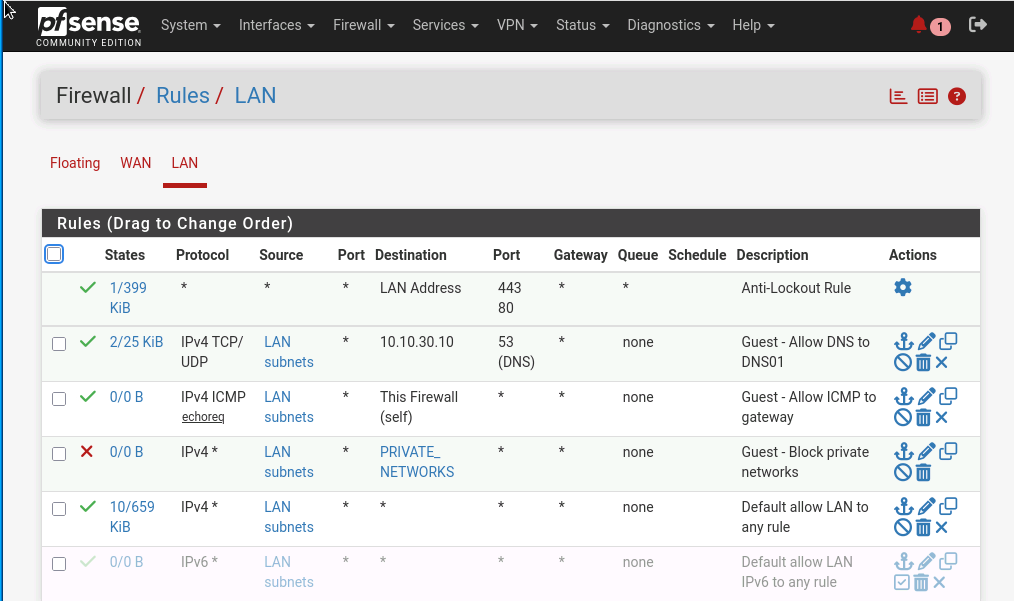
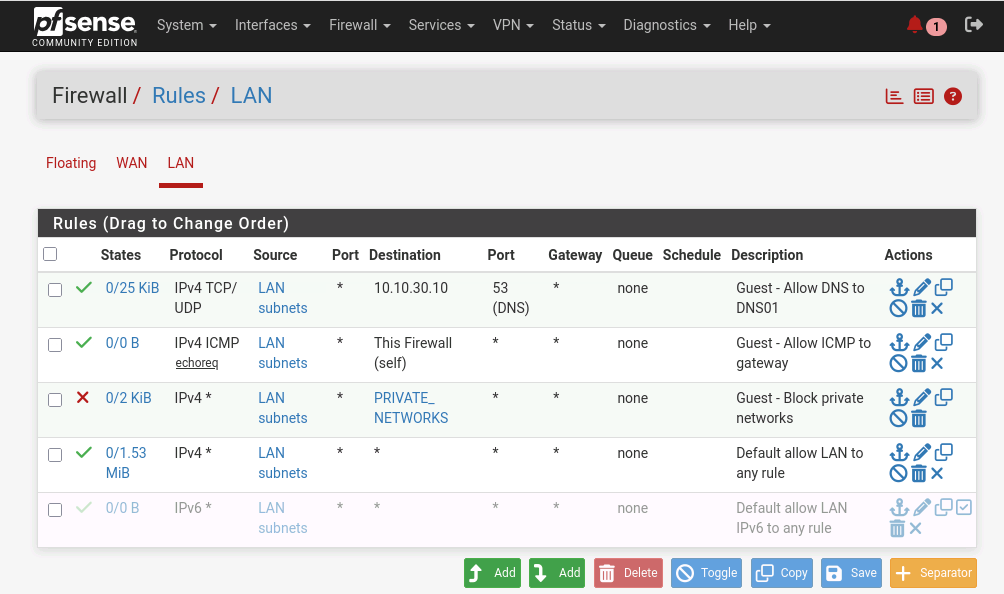
firewall-policy.md minor update

diff --git a/docs/firewall-policy.md b/docs/firewall-policy.md
@@ -41,7 +41,7 @@ Rules are evaluated top-down.
 | 4 | Allow | IPv4 any | IT subnets | HR subnets | Any | Allow IT to manage/reach HR |
 | 5 | Allow | IPv4 any | IT subnets | `10.10.20.0/24` | Any | Allow IT to reach Guest for support |
 | 6 | Allow | TCP | IT subnets | This Firewall (self) | 443 | Allow IT clients to manage pfSense-Internal over HTTPS |
-| 7 | Allow | TCP | IT subnets | `10.10.253.2` | 443 | Allow IT to reach the pfSense-Guest management interface |
+| 7 | Allow | TCP | IT subnets | Guest Network Firewall | 443 | Allow IT clients to manage pfSense-Guest over HTTPS |
 | 8 | Block | IPv4 any | IT subnets | `PRIVATE_NETWORKS` | Any | Block other private/internal networks not explicitly allowed above |
 | 9 | Allow | IPv4 any | IT subnets | Any | Any | Allow Internet/non-private destinations |
 
@@ -78,7 +78,6 @@ Because the private-network block occurs before the final outbound allow, HR can
 
 ![Firewall HQ WAN rules](/docs/firewall-rules/Firewall-HQ-WAN.png)
 
-
 I intentionally did not configure explicit pass rules on the pfSense-Internal WAN interface.
 
 The WAN interface is the transit link toward R1, not the public Internet. Traffic initiated from IT, Finance, or HR is evaluated when it enters pfSense on the corresponding internal interface. When an allow rule creates a firewall state, related return traffic arriving through WAN is automatically permitted.
@@ -112,6 +111,8 @@ Core / remote network initiated traffic
 
 ### Guest WAN Policy
 
+![Firewall Guest WAN rules](/docs/firewall-rules/Firewall-Guest-WAN.png)
+
 | Order | Action | Protocol | Source | Destination | Purpose |
 |---:|---|---|---|---|---|
 | 1 | Block | Any | Reserved/bogon sources | Any | Block invalid/unallocated source networks |
@@ -119,16 +120,13 @@ Core / remote network initiated traffic
 | 3 | Allow | IPv4 any | `10.10.10.0/24` | LAN subnets | Any | Allow HQ/IT access to Guest hosts for support |
 | 4 | Allow | ICMP echo request | `10.10.253.1` | `10.10.253.2` | Any | Allow R3 to ping the pfSense-Guest WAN interface |
 
-The complete HQ IT management path requires matching permission on both firewalls:
-
-- **pfSense-Internal IT interface:** allow `10.10.10.0/24` to `10.10.253.2` on TCP/443.
-- **pfSense-Guest WAN interface:** allow `10.10.10.0/24` to the WAN address `10.10.253.2` on TCP/443.
-
-This path has been tested successfully from the IT network using `https://10.10.253.2`.
+The HTTPS management rule allows trusted IT clients from `10.10.10.0/24` to reach the pfSense-Guest web interface at `https://10.10.253.2`.
 
 The following rule separately permits IT clients from `10.10.10.0/24` to initiate connections toward Guest hosts for support and troubleshooting.
 
 ### Guest LAN Policy
+
+![Firewall Guest LAN rules](/docs/firewall-rules/Firewall-Guest-LAN.png)
 
 | Order | Action | Protocol | Source | Destination | Port | Purpose |
 |---:|---|---|---|---|---|---|
@@ -141,7 +139,7 @@ The DNS exception must be above the private-network block because DNS01 (`10.10.
 
 ### Guest Management Hardening
 
-Trusted remote management from the HQ IT network is explicitly configured on the pfSense-Guest WAN interface:
+Trusted remote management from the HQ IT network is now explicitly configured on the pfSense-Guest WAN interface:
 
 ```text
 Source:      10.10.10.0/24
@@ -151,18 +149,9 @@ Port:        443
 Action:      Allow
 ```
 
-The matching pfSense-Internal IT-interface rule permits `10.10.10.0/24` to reach `10.10.253.2` on TCP/443.
+This gives HQ IT a dedicated management path to the pfSense-Guest GUI without requiring broad access from the Guest LAN.
 
-This path has been tested successfully from the HQ IT network.
-
-The default webConfigurator anti-lockout rule on pfSense-Guest has now been disabled. Guest-LAN clients therefore no longer receive automatic GUI access on ports 80/443; management access is controlled by explicit firewall rules instead.
-
-The intended management model is now:
-
-```text
-HQ IT -> pfSense-Guest HTTPS/443 -> Allow
-Guest clients -> pfSense-Guest GUI -> Deny
-```
+The default pfSense anti-lockout rule on the Guest LAN should only be disabled after the HQ IT management path has been tested successfully. Until that anti-lockout rule is removed, Guest-LAN clients may still be able to reach the firewall web interface on ports 80/443.
 
 ---
 
@@ -173,7 +162,7 @@ Guest clients -> pfSense-Guest GUI -> Deny
 | IT | Local | Allow | Allow | Allow | DNS allowed | Allow | HTTPS allowed | HTTPS allowed |
 | Finance | Block | Local | Block | Block | DNS allowed | Allow | Block | Block |
 | HR | Block | Block | Local | Block | DNS allowed | Allow | Block | Block |
-| Guest | Block | Block | Block | Local | DNS allowed | Allow | Not intended | Blocked |
+| Guest | Block | Block | Block | Local | DNS allowed | Allow | Not intended | Anti-lockout remains until removed |
 | Core/other networks | Default deny at pfSense-Internal WAN | Default deny | Default deny | Depends on Guest WAN rules | N/A | N/A | Default deny | Default deny except explicit WAN rules |
 
 ---
@@ -234,6 +223,5 @@ The current firewall configuration has been tested successfully for:
 - DNS access from all client networks to `10.10.30.10`.
 - DHCP operation through pfSense relay.
 - IT HTTPS management of pfSense-Internal at `10.10.10.1`.
-- HQ IT HTTPS management of pfSense-Guest at `10.10.253.2`, through explicit TCP/443 rules on both pfSense-Internal and pfSense-Guest.
-- Guest-LAN automatic webConfigurator access removed by disabling the pfSense anti-lockout rule.
+- HQ IT HTTPS management of pfSense-Guest at `10.10.253.2`.
 
